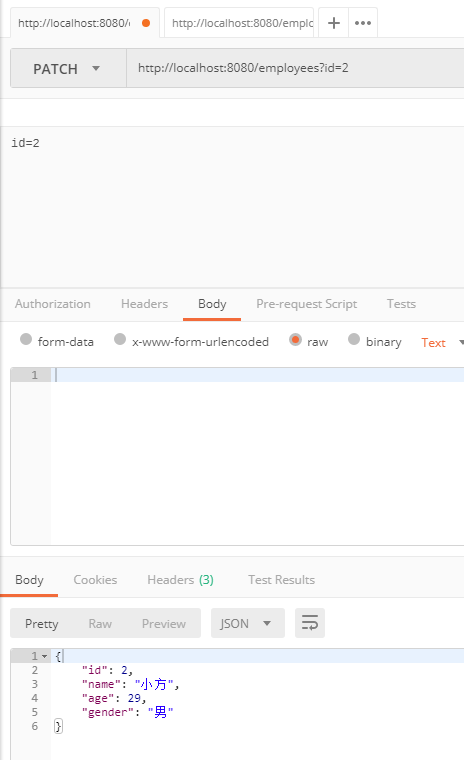
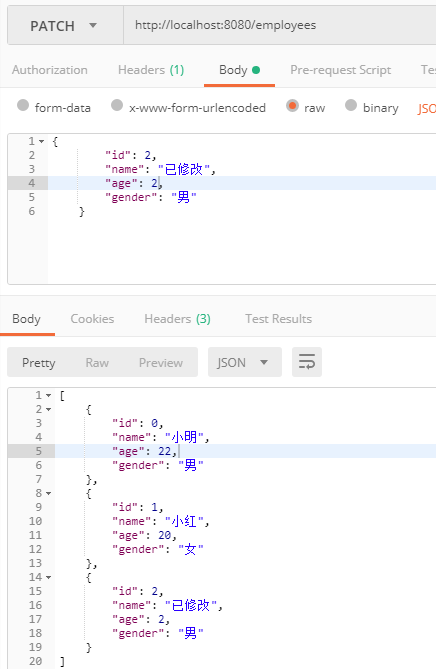
[Jeffery] patchmapping(update item) and commit screen cut

diff --git a/src/main/java/com/oocl/employeeapi/controller/EmployeeController.java b/src/main/java/com/oocl/employeeapi/controller/EmployeeController.java
@@ -6,38 +6,40 @@ import org.springframework.beans.factory.annotation.Autowired;
 import org.springframework.web.bind.annotation.*;
 
 import java.util.ArrayList;
-import java.util.List;
 
 @RestController
+@RequestMapping("/employees")
 public class EmployeeController {
 
     @Autowired
     private EmployeeServiceImpl employeeServiceIpml;
 
-    @GetMapping("/employees")
+    @GetMapping("")
     public ArrayList<Employee> getAllEmployees(){
         return employeeServiceIpml.getAllEmployee();
     }
 
-    @PostMapping("/employees")
-    public ArrayList<Employee> addEmployee(Employee e){
-        employeeServiceIpml.addEmployee(e);
+    @PostMapping("")
+    public ArrayList<Employee> addEmployee(@RequestBody Employee employee){
+        employeeServiceIpml.addEmployee(employee);
         return employeeServiceIpml.getAllEmployee();
     }
 
-    @DeleteMapping("/employees")
-    public ArrayList<Employee> deleteEmployee(@RequestParam int id){
+    @DeleteMapping("{id}")
+    public ArrayList<Employee> deleteEmployee(@PathVariable int id){
         employeeServiceIpml.deleteEmployee(id);
         return employeeServiceIpml.getAllEmployee();
     }
 
-    @PatchMapping("/employees")
-    public Employee queryEmployee(@RequestParam int id){
+    @PutMapping("{id}")
+    public Employee queryEmployee(@PathVariable int id){
         return employeeServiceIpml.queryEmployee(id);
     }
 
-    @RequestMapping("/employees")
-    public String index() {
-        return "Hello Employees";
+    @PatchMapping("")
+    public ArrayList<Employee> updateEmployee(@RequestBody Employee employee){
+        employeeServiceIpml.updateEmployee(employee);
+        return employeeServiceIpml.getAllEmployee();
     }
+
 }

diff --git a/src/main/java/com/oocl/employeeapi/service/EmployeeServiceImpl.java b/src/main/java/com/oocl/employeeapi/service/EmployeeServiceImpl.java
@@ -61,7 +61,15 @@ public class EmployeeServiceImpl implements EmployeeService {
     @Override
     public void updateEmployee(Employee employee) {
         try {
-            //
+            for(int i=0;i<employeesList.size();i++){
+                if(employeesList.get(i).getId()==employee.getId()){
+                    employeesList.get(i).setId(employee.getId());
+                    employeesList.get(i).setName(employee.getName());
+                    employeesList.get(i).setAge(employee.getAge());
+                    employeesList.get(i).setGender(employee.getGender());
+                    break;
+                }
+            }
         }catch (Exception e){
             e.printStackTrace();
         }

diff --git a/src/main/java/com/oocl/employeeapi/entity/Employee.java b/src/main/java/com/oocl/employeeapi/entity/Employee.java
@@ -6,6 +6,10 @@ public class Employee {
     private int age;
     private String gender;
 
+    public Employee(){
+
+    }
+
     public Employee(int id,String name, int age, String gender){
         setId(id);
         setName(name);
